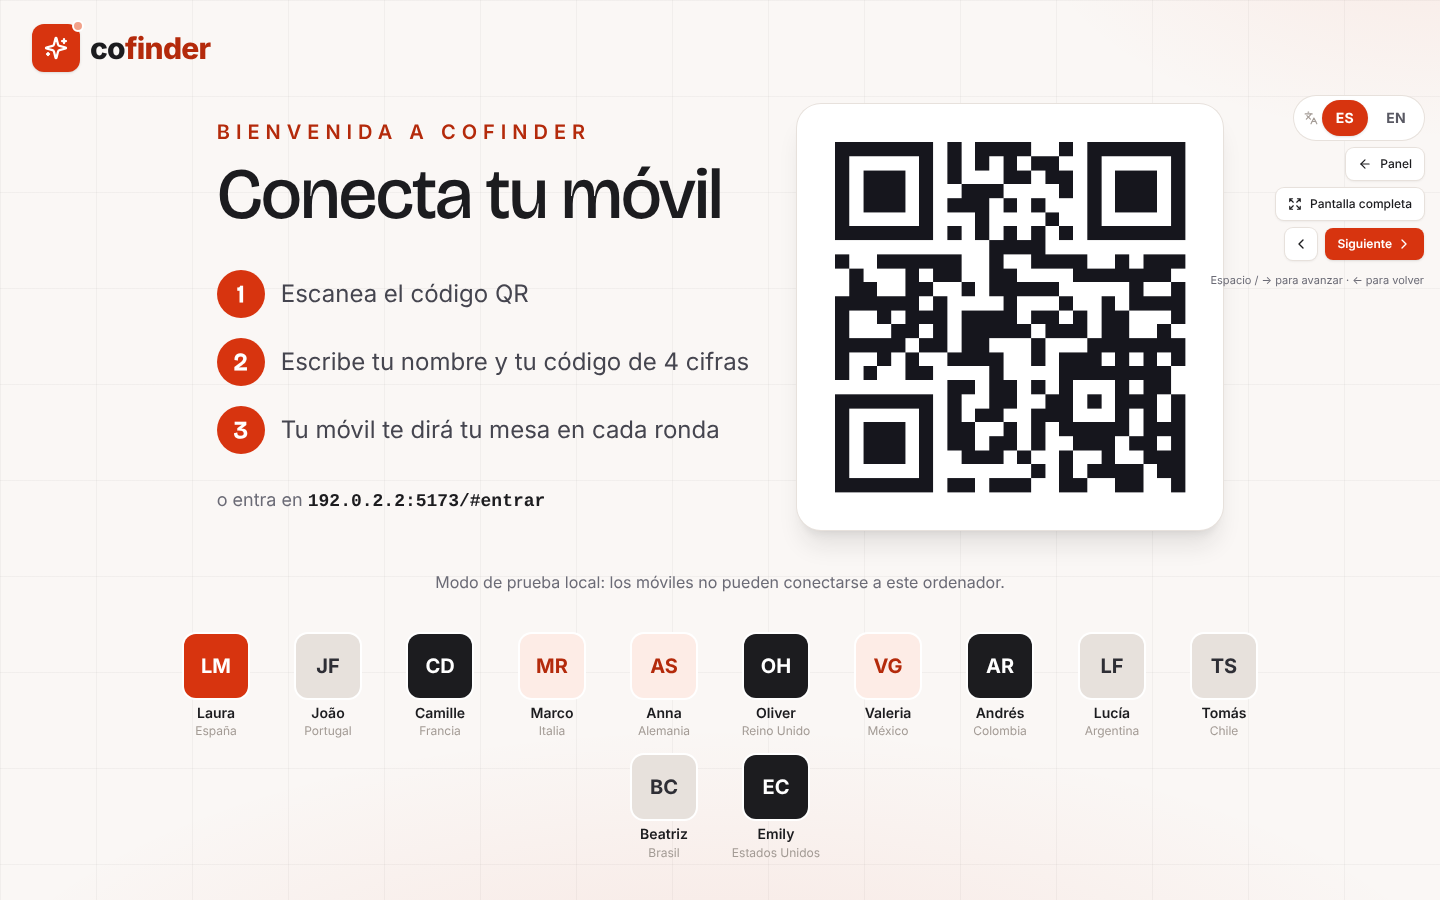
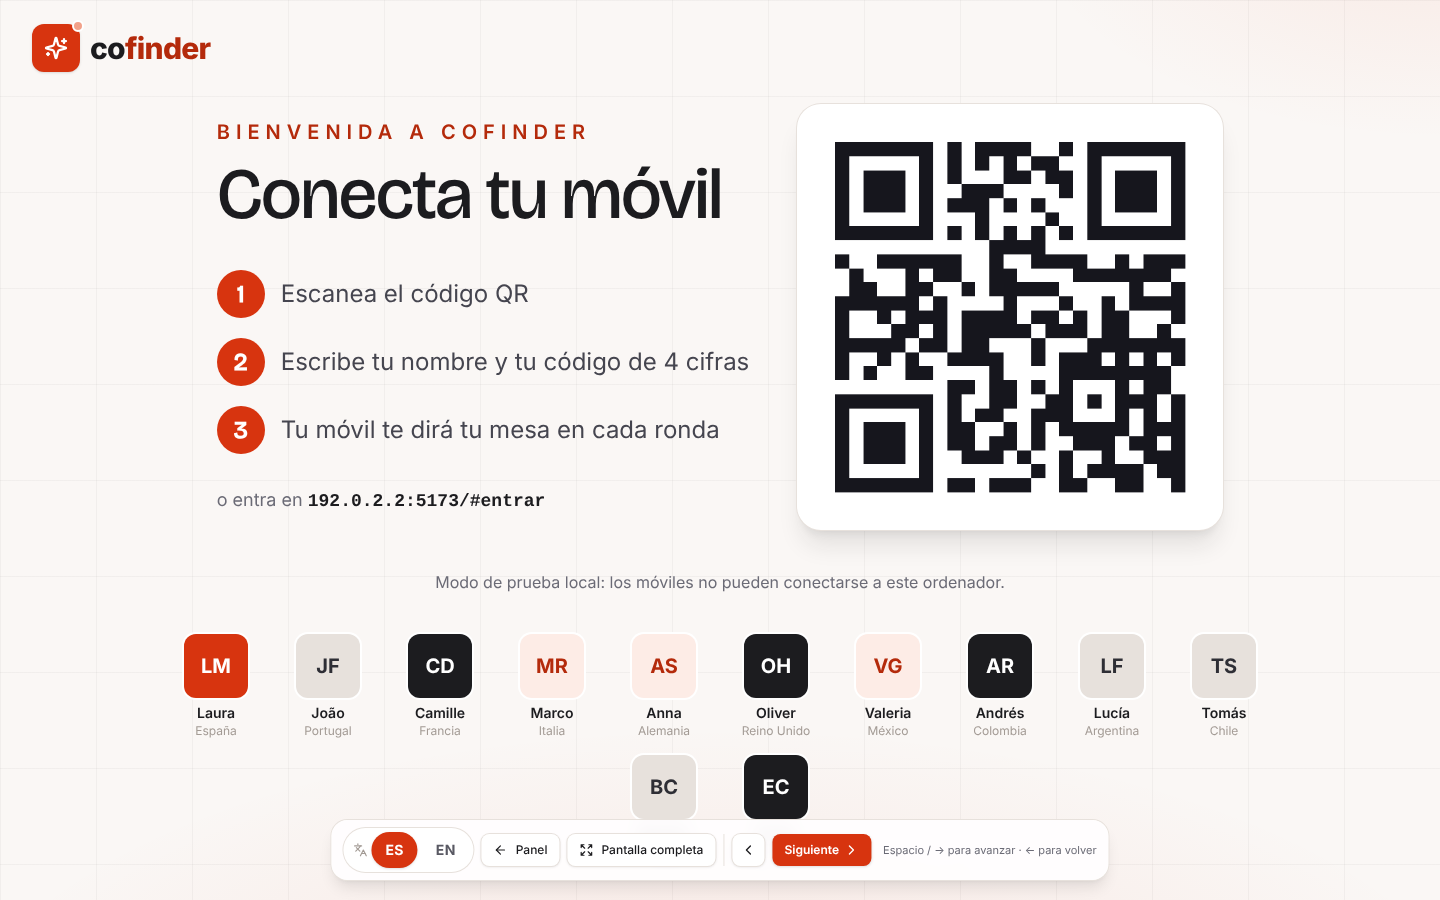
Proyector: los controles pasan a una barra abajo en el centro
Claude-Session: https://claude.ai/code/session_01QanPJngbWM459aGeuc8RTw

diff --git a/src/views/ProjectorView.jsx b/src/views/ProjectorView.jsx
@@ -187,15 +187,15 @@ export default function ProjectorView() {
       </header>
 
       {/* Controles discretos: aparecen al pasar el ratón */}
-      <div className="fixed right-4 top-24 z-30 flex flex-col items-end gap-2 opacity-0 transition group-hover:opacity-100 focus-within:opacity-100">
+      <div className="fixed bottom-5 left-1/2 z-30 flex w-max max-w-[calc(100vw-2rem)] -translate-x-1/2 items-center whitespace-nowrap justify-center gap-2 rounded-2xl bg-white/90 px-3 py-2 shadow-lg ring-1 ring-slate-200 backdrop-blur opacity-0 transition group-hover:opacity-100 focus-within:opacity-100">
         <LangSwitch />
         <button onClick={() => navigate(VIEWS.MOD_PANEL)} className="flex items-center gap-2 rounded-lg bg-white px-3 py-2 text-xs font-medium shadow ring-1 ring-slate-200"><ArrowLeft className="h-3.5 w-3.5" /> {t('projector.panel')}</button>
         <button onClick={fullscreen} className="flex items-center gap-2 rounded-lg bg-white px-3 py-2 text-xs font-medium shadow ring-1 ring-slate-200"><Expand className="h-3.5 w-3.5" /> {t('projector.fullscreen')}</button>
-        <div className="flex gap-2">
+        <div className="flex gap-2 border-l border-slate-200 pl-2">
           <button onClick={stepBack} aria-label={t('projector.back')} className="rounded-lg bg-white p-2 shadow ring-1 ring-slate-200"><ChevronLeft className="h-4 w-4" /></button>
           <button onClick={advance} className="flex items-center gap-1 rounded-lg bg-brand px-3 py-2 text-xs font-semibold shadow">{t('projector.nextStep')} <ChevronRight className="h-4 w-4" /></button>
         </div>
-        <p className="text-[11px] text-slate-500">{t('projector.keysHint')}</p>
+        <p className="pl-1 text-[11px] text-slate-500">{t('projector.keysHint')}</p>
       </div>
 
       <main className="flex flex-1 flex-col px-8 pb-8">{scene}</main>
